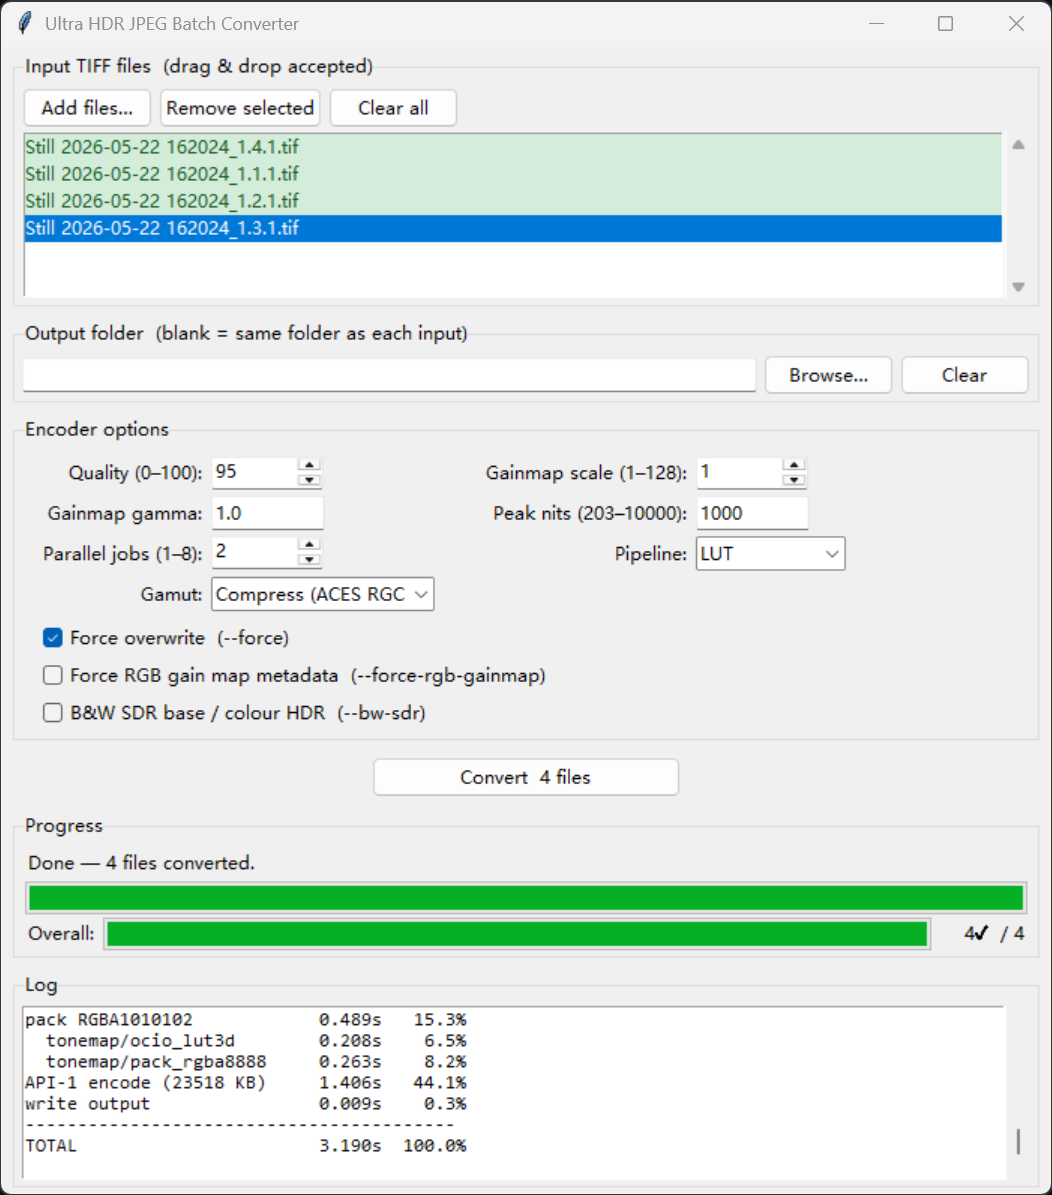
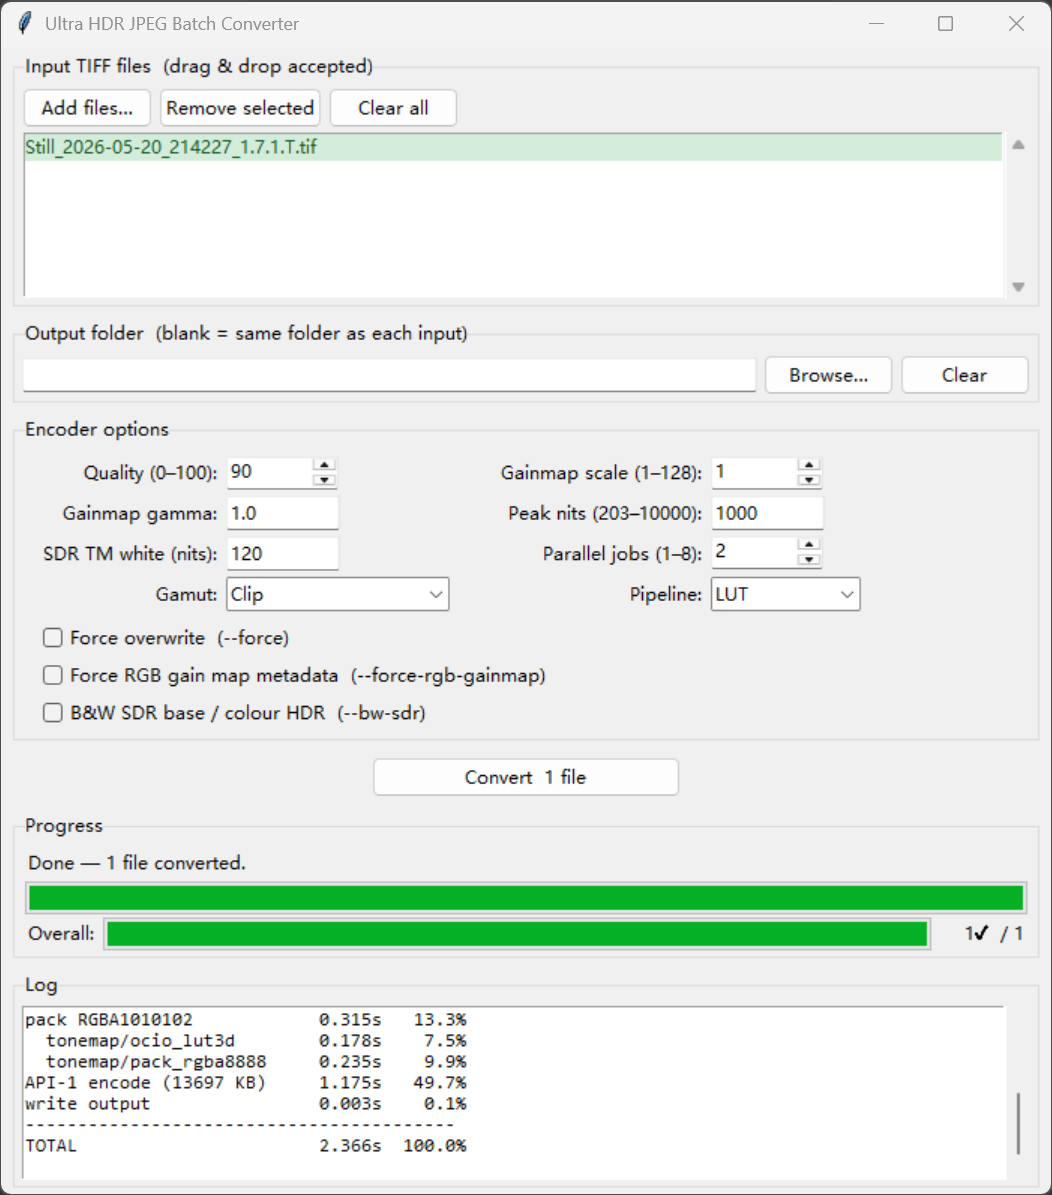
Add --sdr-tm-white: separate SDR base TM white point from gain map reference
Introduces _SDR_TM_WHITE_NITS (default 120 nit) for the Reinhard tone map
headroom in the Python SDR base path, decoupled from libultrahdr's internal
203 nit gain map assumption. Wired through color.configure_sdr_tm_white(),
the --sdr-tm-white CLI flag, and a new GUI field. Docs updated in README and
CLAUDE.md.

diff --git a/gui.py b/gui.py
@@ -50,6 +50,7 @@ def _run_one(
         "--gainmap-scale", str(opts["gainmap_scale"]),
         "--gainmap-gamma", str(opts["gainmap_gamma"]),
         "--peak-nits",     str(opts["peak_nits"]),
+        "--sdr-tm-white",  str(opts["sdr_tm_white"]),
     ]
     if opts["force"]:
         cmd.append("--force")
@@ -179,6 +180,7 @@ class App(TkinterDnD.Tk):
         self._gm_scale_var    = tk.IntVar(value=1)
         self._gm_gamma_var    = tk.StringVar(value="1.0")
         self._peak_nits_var   = tk.StringVar(value="1000")
+        self._sdr_tm_white_var = tk.StringVar(value="120")
         self._jobs_var        = tk.IntVar(value=2)
         self._force_var       = tk.BooleanVar(value=False)
         self._pipeline_var    = tk.StringVar(value="LUT")
@@ -187,11 +189,12 @@ class App(TkinterDnD.Tk):
         self._bw_sdr_var            = tk.BooleanVar(value=False)
 
         fields = [
-            ("Quality (0–100):",       self._quality_var,   "spin",  0,    100),
-            ("Gainmap scale (1–128):", self._gm_scale_var,  "spin",  1,    128),
-            ("Gainmap gamma:",         self._gm_gamma_var,  "entry", None, None),
-            ("Peak nits (203–10000):", self._peak_nits_var, "entry", None, None),
-            ("Parallel jobs (1–8):",   self._jobs_var,      "spin",  1,    8),
+            ("Quality (0–100):",       self._quality_var,      "spin",  0,    100),
+            ("Gainmap scale (1–128):", self._gm_scale_var,     "spin",  1,    128),
+            ("Gainmap gamma:",         self._gm_gamma_var,     "entry", None, None),
+            ("Peak nits (203–10000):", self._peak_nits_var,    "entry", None, None),
+            ("SDR TM white (nits):",   self._sdr_tm_white_var, "entry", None, None),
+            ("Parallel jobs (1–8):",   self._jobs_var,         "spin",  1,    8),
         ]
         for n, (label, var, kind, lo, hi) in enumerate(fields):
             col = (n % 2) * 3
@@ -204,12 +207,12 @@ class App(TkinterDnD.Tk):
             w.grid(row=row, column=col + 1, sticky="w", padx=(0, 24), pady=2)
 
         ttk.Label(g, text="Pipeline:", anchor="e").grid(
-            row=2, column=3, sticky="e", padx=(8, 4)
+            row=3, column=3, sticky="e", padx=(8, 4)
         )
         ttk.Combobox(
             g, textvariable=self._pipeline_var,
             values=["LUT", "Parametric"], state="readonly", width=11,
-        ).grid(row=2, column=4, sticky="w", padx=(0, 24), pady=2)
+        ).grid(row=3, column=4, sticky="w", padx=(0, 24), pady=2)
 
         ttk.Label(g, text="Gamut:", anchor="e").grid(
             row=3, column=0, sticky="e", padx=(8, 4)
@@ -326,18 +329,20 @@ class App(TkinterDnD.Tk):
             gs = int(self._gm_scale_var.get())
             gg = float(self._gm_gamma_var.get())
             pn = float(self._peak_nits_var.get())
+            stw = float(self._sdr_tm_white_var.get())
             jb = int(self._jobs_var.get())
         except (ValueError, tk.TclError) as exc:
             raise ValueError(f"Invalid option value: {exc}") from exc
         return {
-            "quality":       max(0,     min(100,   q)),
-            "gainmap_scale": max(1,     min(128,   gs)),
-            "gainmap_gamma": max(0.001,            gg),
-            "peak_nits":     max(203.0, min(10000, pn)),
-            "jobs":          max(1,     min(8,     jb)),
-            "force":         self._force_var.get(),
-            "pipeline":      self._pipeline_var.get().lower(),
-            "gamut":         "clip" if self._gamut_var.get() == "Clip" else "compress",
+            "quality":         max(0,     min(100,   q)),
+            "gainmap_scale":   max(1,     min(128,   gs)),
+            "gainmap_gamma":   max(0.001,            gg),
+            "peak_nits":       max(203.0, min(10000, pn)),
+            "sdr_tm_white":    max(1.0,   min(10000, stw)),
+            "jobs":            max(1,     min(8,     jb)),
+            "force":           self._force_var.get(),
+            "pipeline":        self._pipeline_var.get().lower(),
+            "gamut":           "clip" if self._gamut_var.get() == "Clip" else "compress",
             "force_rgb_gainmap": self._force_rgb_gainmap_var.get(),
             "bw_sdr":            self._bw_sdr_var.get(),
         }

diff --git a/color.py b/color.py
@@ -9,7 +9,16 @@ import colour
 import PyOpenColorIO as OCIO
 
 _HDR_PEAK_NITS  = np.float32(10000.0)
+# _SDR_WHITE_NITS is not used by any Python code — the gain map computation is
+# internal to libultrahdr (C library) and assumes 203 nit SDR diffuse white per
+# ISO 21496-1.  This constant is kept as a reference so the 203/100 split is
+# visible in one place alongside _SDR_TM_WHITE_NITS.
 _SDR_WHITE_NITS = np.float32(203.0)
+# Target white level for the SDR base tone map only.  Set to 100 nit (typical
+# consumer display) rather than 203 nit so that diffuse white in the SDR image
+# maps to peak code value, giving a correct-looking result on SDR-only displays.
+# This does NOT affect the gain map: libultrahdr always uses 203 nit internally.
+_SDR_TM_WHITE_NITS = np.float32(120.0)
 
 # ACES 1.3 Reference Gamut Compression parameters (AMPAS spec defaults).
 _RGC_PARAMS = [1.147, 1.264, 1.312, 0.815, 0.803, 0.880, 1.2]
@@ -20,6 +29,18 @@ _CPU_PROC_CLIP: OCIO.CPUProcessor | None = None               # LUT-based gamut-
 _CPU_PROC_ANALYTICAL_CLIP: OCIO.CPUProcessor | None = None    # analytical gamut-clip processor
 _TONEMAP_PROC: OCIO.CPUProcessor | None = None
 _TONEMAP_GREY_PROC: OCIO.CPUProcessor | None = None
+
+
+def configure_sdr_tm_white(nits: float) -> None:
+    """Override the SDR base tone-map white point and invalidate cached LUTs.
+
+    Call once before the first encode.  Has no effect on gain map computation —
+    libultrahdr's internal gain map math always uses 203 nit SDR diffuse white.
+    """
+    global _SDR_TM_WHITE_NITS, _TONEMAP_PROC, _TONEMAP_GREY_PROC
+    _SDR_TM_WHITE_NITS = np.float32(nits)
+    _TONEMAP_PROC = None
+    _TONEMAP_GREY_PROC = None
 
 # PQ EOTF constants matching gainmapmath.cpp (kPqM1, kPqM2, kPqC1-C3).
 # pqInvOetf returns [0,1] where 1.0 = 10 000 nits — same scale libultrahdr uses.
@@ -217,7 +238,7 @@ def _build_tonemap_processor() -> OCIO.CPUProcessor:
         return _TONEMAP_PROC
 
     N = 65  # 65³ ≈ 274 K LUT samples; b varies fastest to match OCIO's layout
-    headroom    = float(_HDR_PEAK_NITS / _SDR_WHITE_NITS)   # ≈ 49.26
+    headroom    = float(_HDR_PEAK_NITS / _SDR_TM_WHITE_NITS)   # ≈ 100.0 (10000/100)
     headroom_sq = np.float32(headroom * headroom)
 
     coords = np.linspace(0.0, 1.0, N, dtype=np.float32)
@@ -270,7 +291,7 @@ def _build_tonemap_grey_processor() -> OCIO.CPUProcessor:
         return _TONEMAP_GREY_PROC
 
     N = 65
-    headroom    = float(_HDR_PEAK_NITS / _SDR_WHITE_NITS)
+    headroom    = float(_HDR_PEAK_NITS / _SDR_TM_WHITE_NITS)
     headroom_sq = np.float32(headroom * headroom)
 
     coords = np.linspace(0.0, 1.0, N, dtype=np.float32)
@@ -396,7 +417,7 @@ def p3_pq_to_sdr_rgba8888(
         timings["pq_decode"] = time.perf_counter() - t
 
         t = time.perf_counter()
-        headroom = _HDR_PEAK_NITS / _SDR_WHITE_NITS
+        headroom = _HDR_PEAK_NITS / _SDR_TM_WHITE_NITS
         y = linear * headroom
         y_max = np.max(y, axis=-1, keepdims=True)
         y_max_sdr = (y_max * (np.float32(1.0) + y_max / (headroom * headroom))

diff --git a/convert.py b/convert.py
@@ -83,6 +83,11 @@ def parse_args() -> argparse.Namespace:
                    help="Desaturate the SDR base to luma-only greyscale (BT.709 coefficients). "
                         "The HDR intent remains full colour, producing a B&W SDR / colour HDR "
                         "UHDR JPEG. Implies --force-rgb-gainmap. Not compatible with --use-api3.")
+    p.add_argument("--sdr-tm-white", type=float, default=120.0,
+                   help="SDR base tone-map white point in nits (default: 120). "
+                        "Sets the Reinhard headroom for the SDR base image only. "
+                        "Does not affect gain map computation (libultrahdr always "
+                        "uses 203 nit internally).")
     p.add_argument("--force", "-f", action="store_true",
                    help="Overwrite output if it exists")
     p.add_argument("--verbose", "-v", action="store_true")
@@ -347,6 +352,8 @@ def main() -> int:
     rgb16 = load_pq_tiff(args.input)
     H, W = rgb16.shape[:2]
     t = lap(f"load TIFF ({W}x{H})", t)
+
+    color.configure_sdr_tm_white(args.sdr_tm_white)
 
     use_lut = (args.pipeline == "lut")
     gamut_compress = (args.gamut == "compress")

diff --git a/CLAUDE.md b/CLAUDE.md
@@ -39,6 +39,10 @@ uv run python convert.py <input.tif> <output.jpg> [--force] [--verbose]
 #   --bw-sdr             desaturate the SDR base to BT.709 luma greyscale (linear light);
 #                        HDR intent remains full colour. Implies --force-rgb-gainmap.
 #                        API-1 only; not compatible with --use-api3.
+#   --sdr-tm-white 120   Reinhard tone-map white point for the SDR base image in nits
+#                        (default: 120). Lower values brighten the SDR base on typical
+#                        consumer displays. Does NOT affect gain map computation —
+#                        libultrahdr always uses 203 nit SDR diffuse white internally.
 
 # Launch the batch GUI (tkinter; wraps convert.py via subprocess)
 uv run python gui.py
@@ -164,6 +168,7 @@ primary and gain-map JPEGs in the UHDR container. JPEG scan data byte-stuffs `0x
 - **The App-0 primary JPEG is used as-is in API-3** — when the compressed SDR input codec and output codec are both JPEG, libultrahdr uses the JPEG directly as the primary image without re-encoding, avoiding double-encode quality loss.
 - **The output buffer from `uhdr_get_encoded_stream` is owned by the encoder** — we `string_at` it to Python `bytes` *before* calling `uhdr_release_encoder`. The `_ = packed_p3_hdr, sdr_buf` line inside the `try` block in `_encode_api3` keeps both backing buffers alive until after the copy.
 - **`--bw-sdr` always implies `--force-rgb-gainmap`** — a greyscale SDR base produces identical per-channel gain statistics; without the forced flag libultrahdr collapses the ISO 21496-1 gain map metadata to 1-channel, which causes wrong HDR rendering. `--bw-sdr` is incompatible with `--use-api3` because the App-0 tone map is internal to libultrahdr.
+- **SDR base TM white point is 120 nit; gain map white point is 203 nit** — `color._SDR_TM_WHITE_NITS` (default 120) controls the Reinhard headroom for the Python SDR tone map only, targeting a typical consumer display. The gain map computation inside libultrahdr is unaffected — it always assumes 203 nit SDR diffuse white per ISO 21496-1. Controllable via `--sdr-tm-white`; `color.configure_sdr_tm_white()` must be called before the first encode to invalidate cached LUTs.
 
 ### Ultra HDR JPEG file structure (what the encoder produces)
 

diff --git a/README.md b/README.md
@@ -86,6 +86,12 @@ options:
   --force-rgb-gainmap
                    Force 3-channel ISO 21496-1 gain map metadata (prevents channel
                    collapse when per-channel gain statistics are identical)
+  --sdr-tm-white N SDR base tone-map white point in nits (default: 120).
+                   Sets the Reinhard headroom for the SDR base image only — does not
+                   affect gain map computation (libultrahdr always uses 203 nit
+                   internally). Lower values (e.g. 100–120) produce a brighter SDR
+                   base on typical consumer displays; 203 matches libultrahdr's
+                   internal App-0 tone map.
   --bw-sdr         Desaturate the SDR base to BT.709 luma greyscale (applied in linear
                    light after Reinhard); the HDR intent remains full colour.
                    Implies --force-rgb-gainmap. Not compatible with --use-api3.
@@ -119,6 +125,7 @@ Leave the field blank to write each output file next to its source TIFF (e.g. `f
 | Gainmap scale | 1–128 | 1 | Gain map downscale factor (1 = full resolution) |
 | Gainmap gamma | > 0 | 1.0 | Encoding gamma applied to the gain map |
 | Peak nits | 203–10000 | 1000 | Target HDR display peak brightness |
+| SDR TM white | > 0 | 120 | Reinhard tone-map white point for the SDR base image in nits. Does not affect gain map computation (libultrahdr uses 203 nit internally). |
 | Parallel jobs | 1–8 | 2 | Number of files encoded simultaneously |
 | Pipeline | LUT / Parametric | LUT | Color pipeline mode (see `--pipeline`) |
 | Gamut | Compress / Clip | Compress (ACES RGC) | BT.2020→P3 out-of-gamut handling (see `--gamut`) |
